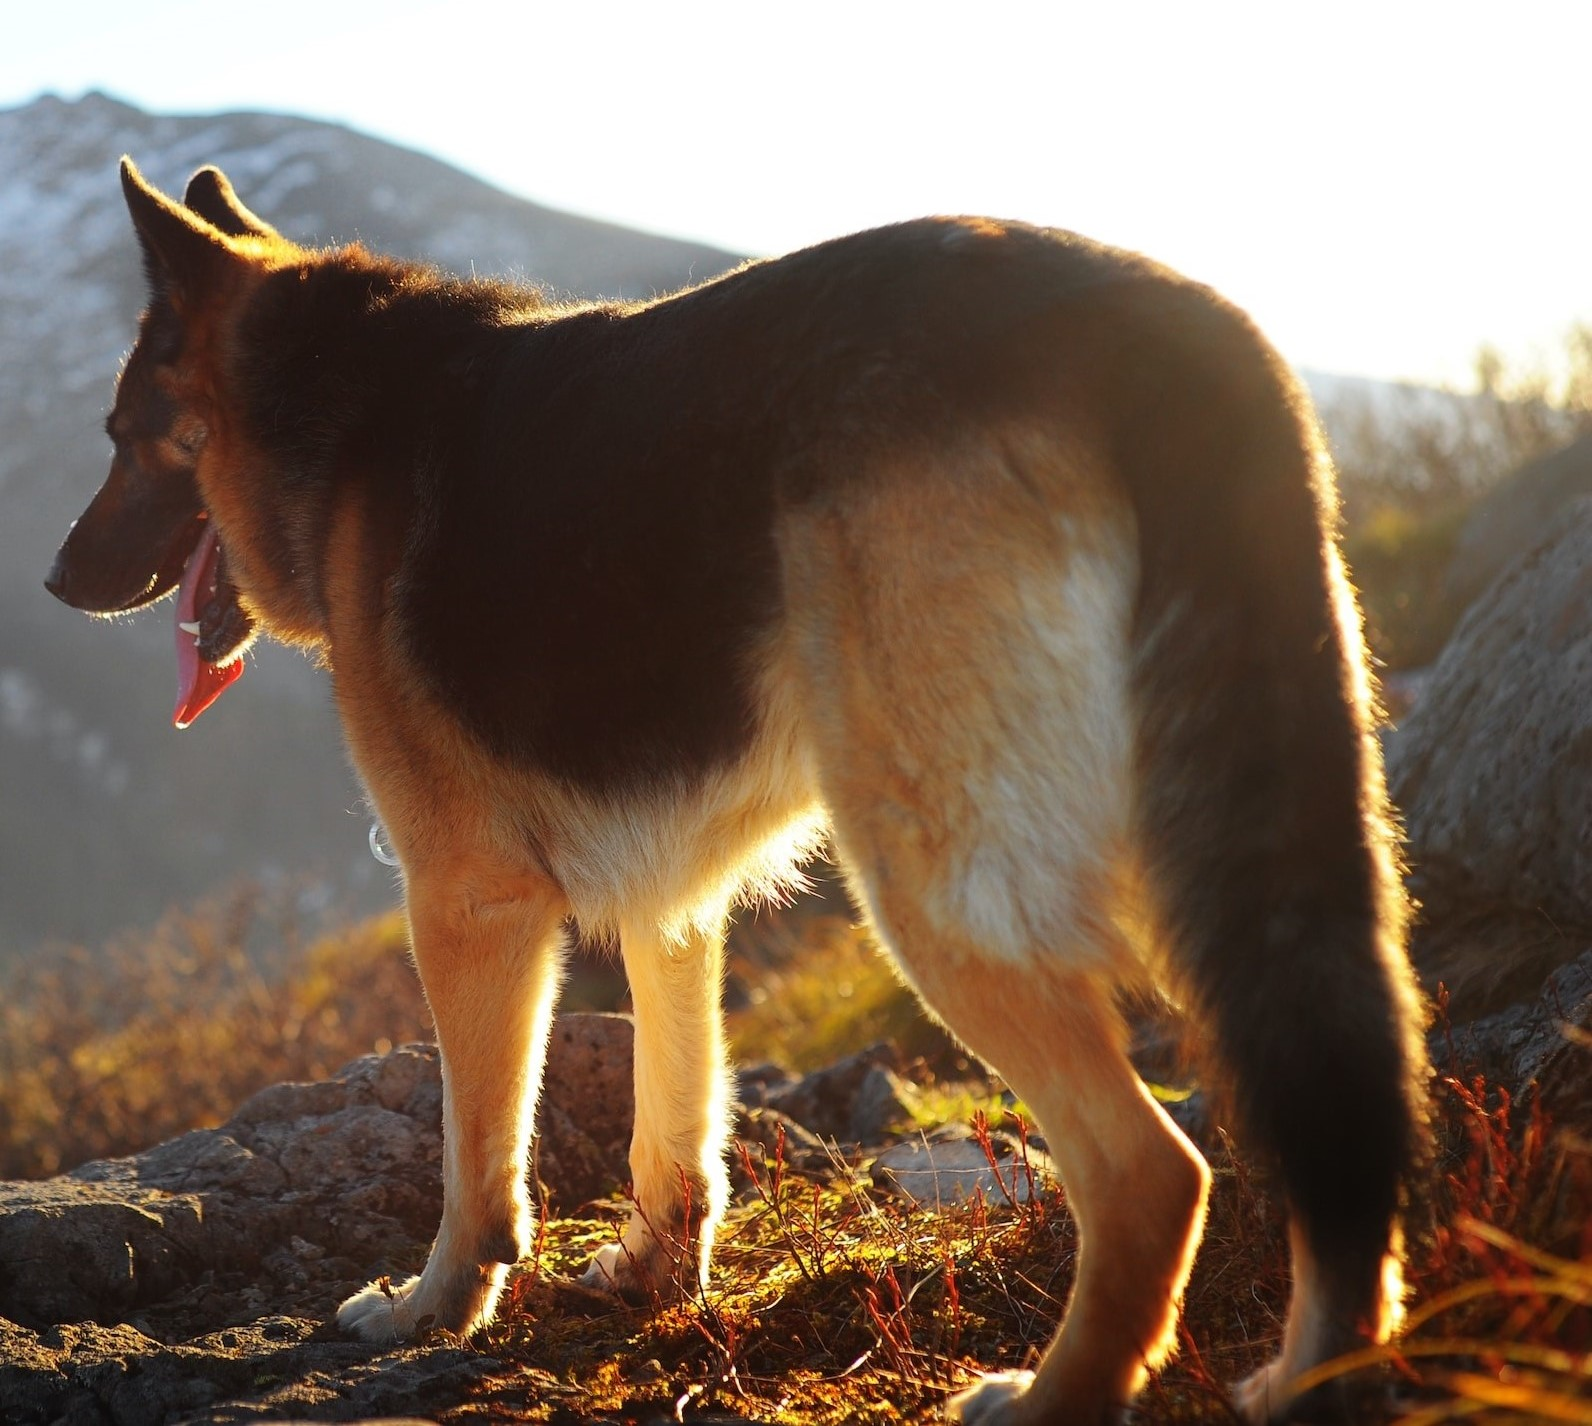
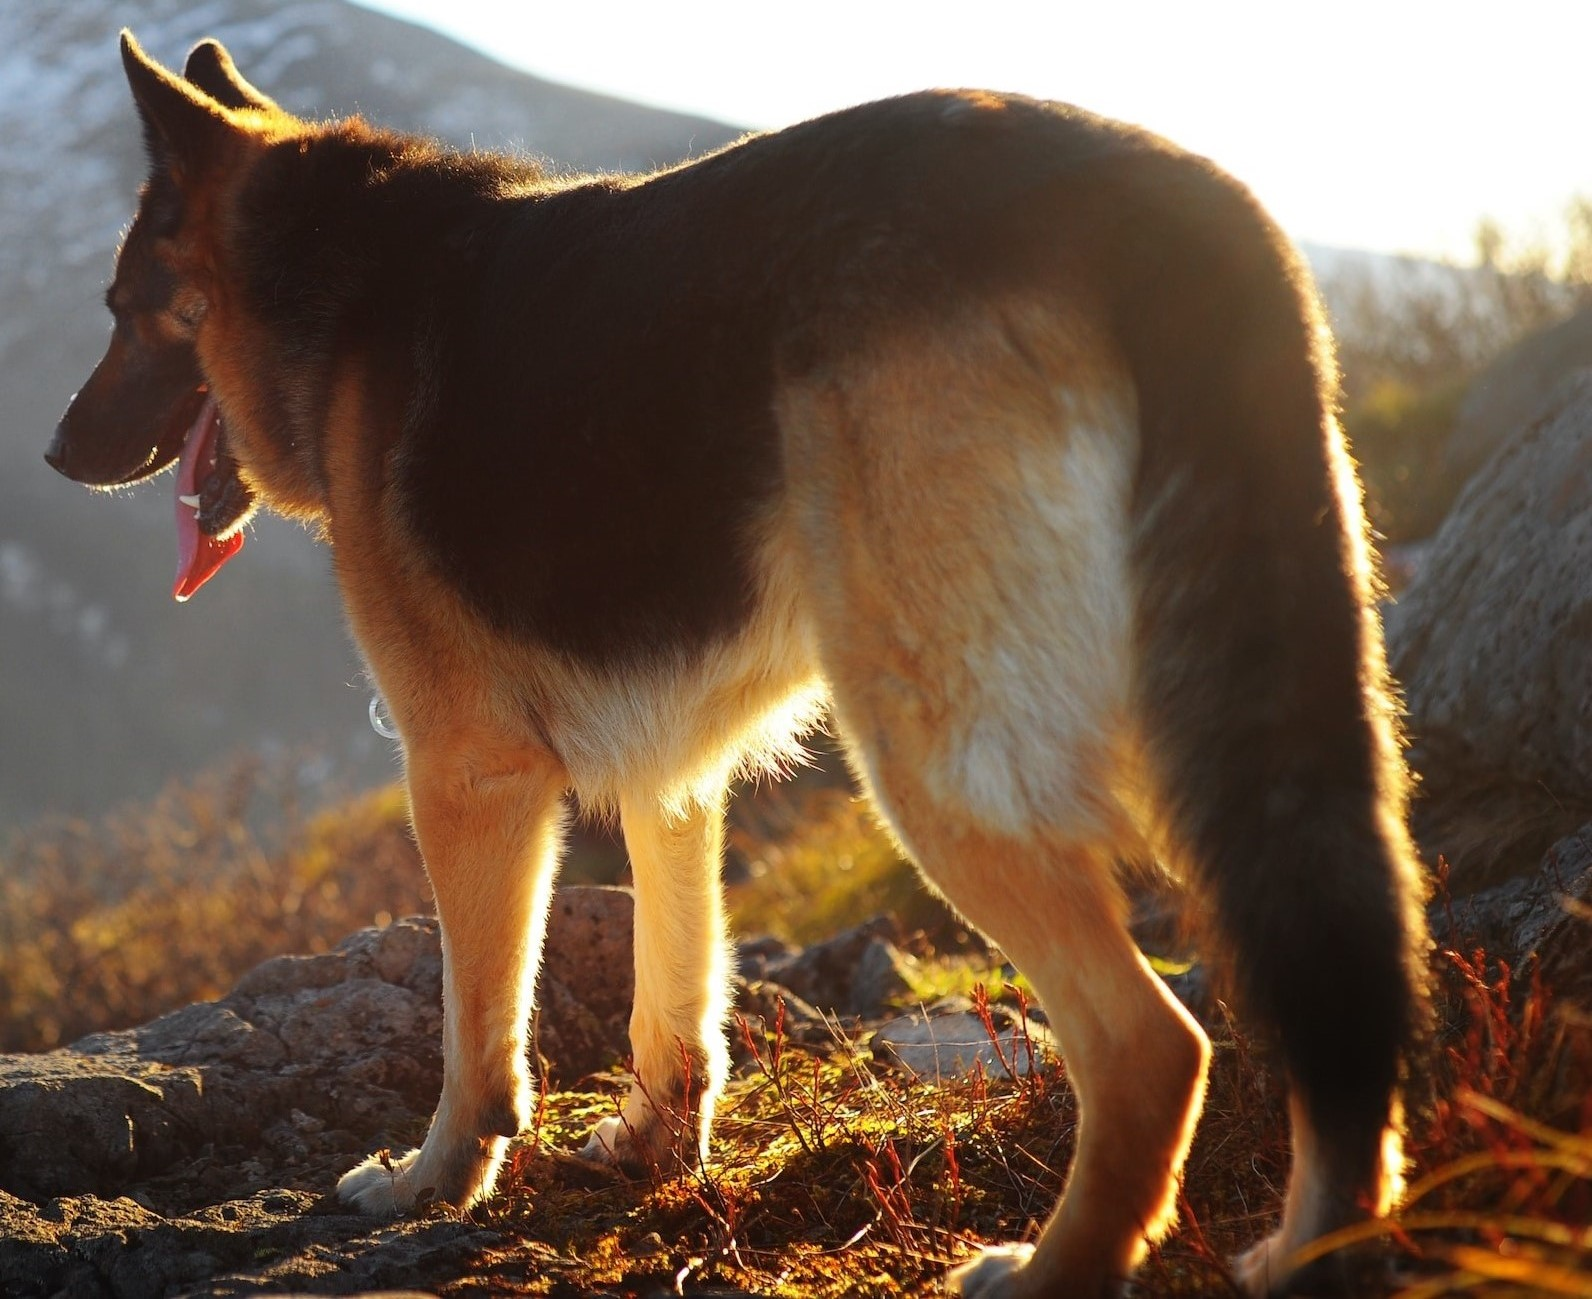
Update style

diff --git a/style.css b/style.css
@@ -197,7 +197,7 @@ footer a {
                 transparent 80px
             ),
             url('images/german-shepherd-mountain-horiz-mid.jpg');
-        background-position: left;
+        background-position: top;
     }
     .logo-cont-home {
         border: 1.2vh solid rgba(0, 208, 255, 0.5);
@@ -257,20 +257,7 @@ footer a {
                 transparent 80px
             ),
             url('images/german-shepherd-mountain-horiz-large.jpg');
-        background-position: center;
-    }
-    .logo-cont-home {
-        border: 1vh solid rgba(0, 208, 255, 0.5);
-        height: 35vh;
-        margin: 12vh auto 6vh auto;
-        width: 35vh;
-    }
-    .logo-cont-home h1 {
-        border-bottom: 1vh solid #fff;
-        font-size: 12vh
-    }
-    .logo-cont-home p {
-        font-size: 4vh;
+            background-position: top;
     }
 }
 
